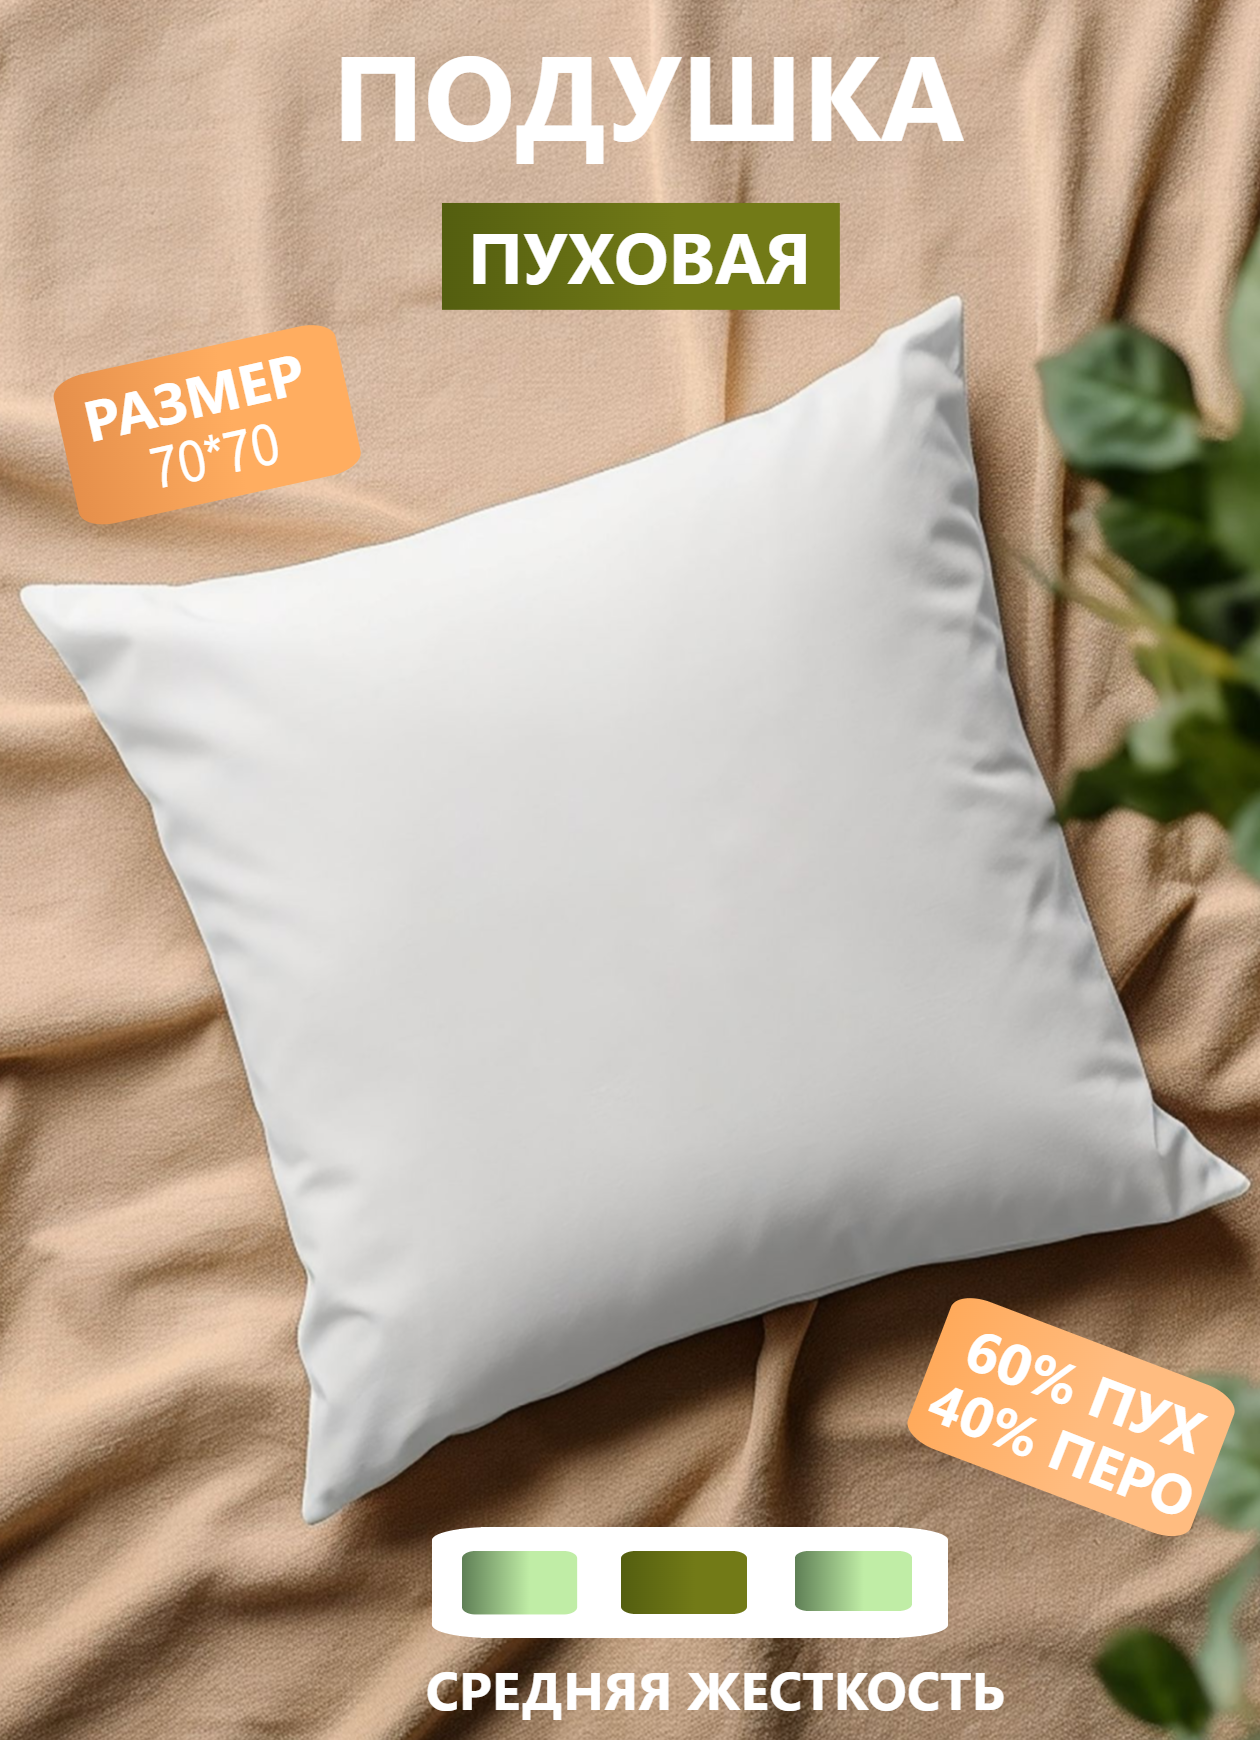
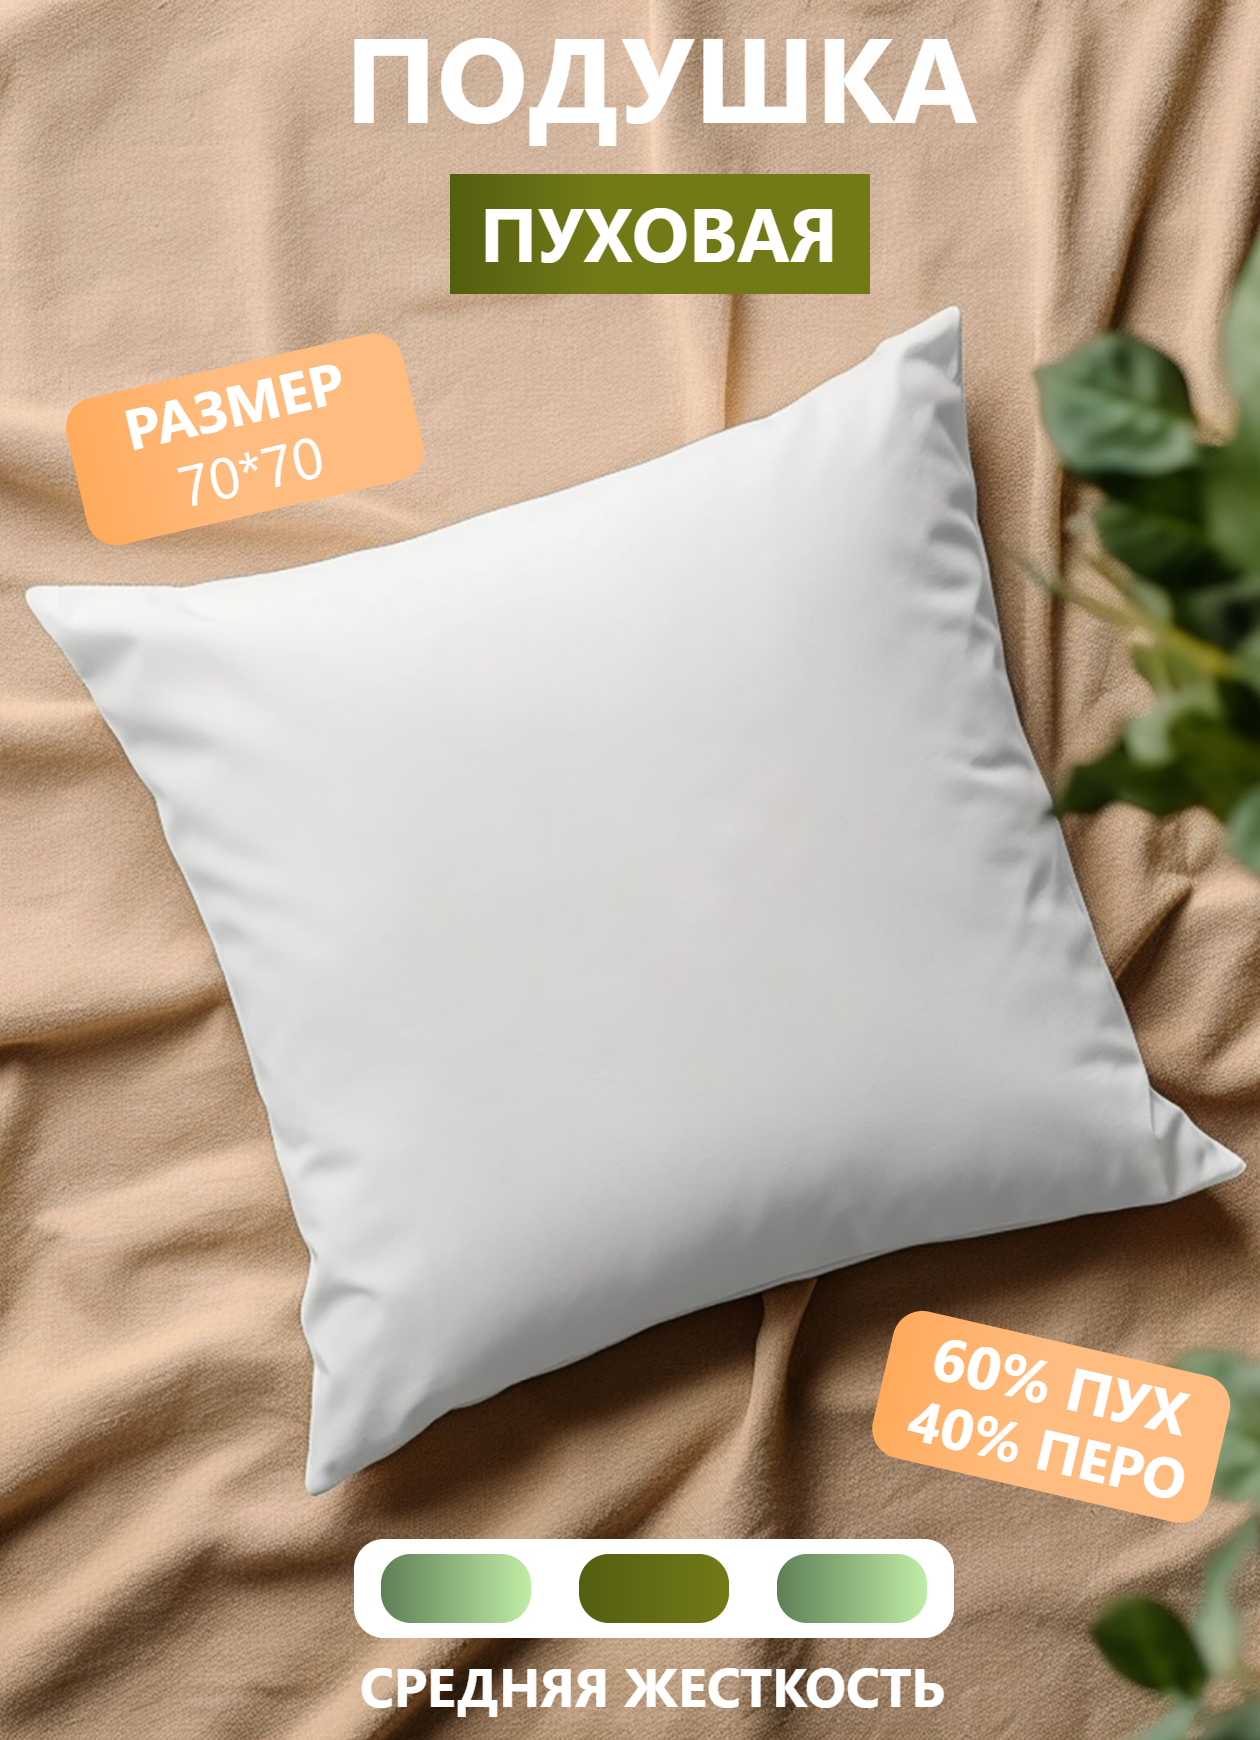
finishedFirstTempOzon

diff --git a/src/components/templates/templates-ozon/template-pillow/TemplateOzonPillowData.js b/src/components/templates/templates-ozon/template-pillow/TemplateOzonPillowData.js
@@ -18,6 +18,10 @@ export default function addImageTemplateOzonPillow(
   let rectSoft;
   let rectSize;
   let rectParams;
+  let bottomRect;
+  let bottomsmallRect1;
+  let bottomsmallRect2;
+  let bottomsmallRect3;
   if (imageFile) {
     var reader = new FileReader();
     reader.onload = function (event) {
@@ -185,6 +189,67 @@ export default function addImageTemplateOzonPillow(
         slideIndex: currentStageIndex,
       };
 
+      bottomRect = {
+        type: "image",
+        id: allObjectsOnStage.length + 1,
+        x: 118,
+        y: 513,
+        image: new window.Image(),
+        typeofImage: "figures_quadrat_rounded",
+        fill: "#fff",
+        width: 200,
+        height: 33,
+        slideIndex: currentStageIndex,
+      };
+      bottomRect.image.src = "./figures/квадратСкругленный.png";
+
+      const splittedStringbottomsmallRect = ["#243D25", "#C0EDA6"];
+
+      bottomsmallRect1 = {
+        type: "image",
+        id: allObjectsOnStage.length + 1,
+        x: 127,
+        y: 518,
+        image: new window.Image(),
+        typeofImage: "figures_quadrat_rounded",
+        fillLinearGradientColorStops: splittedStringbottomsmallRect,
+        fillPriority: "linear-gradient",
+        width: 50,
+        height: 23,
+        slideIndex: currentStageIndex,
+      };
+      bottomsmallRect1.image.src = "./figures/квадратСкругленный.png";
+
+      bottomsmallRect2 = {
+        type: "image",
+        id: allObjectsOnStage.length + 1,
+        x: 193,
+        y: 518,
+        image: new window.Image(),
+        typeofImage: "figures_quadrat_rounded",
+        fillLinearGradientColorStops: splittedString,
+        fillPriority: "linear-gradient",
+        width: 50,
+        height: 23,
+        slideIndex: currentStageIndex,
+      };
+      bottomsmallRect2.image.src = "./figures/квадратСкругленный.png";
+
+      bottomsmallRect3 = {
+        type: "image",
+        id: allObjectsOnStage.length + 1,
+        x: 259,
+        y: 518,
+        image: new window.Image(),
+        typeofImage: "figures_quadrat_rounded",
+        fillLinearGradientColorStops: splittedStringbottomsmallRect,
+        fillPriority: "linear-gradient",
+        width: 50,
+        height: 23,
+        slideIndex: currentStageIndex,
+      };
+      bottomsmallRect3.image.src = "./figures/квадратСкругленный.png";
+
       setallObjectsOnStage([
         ...allObjectsOnStage,
         newImage,
@@ -198,6 +263,10 @@ export default function addImageTemplateOzonPillow(
         rectParams,
         newTextRectParams1,
         newTextRectParams2,
+        bottomRect,
+        bottomsmallRect1,
+        bottomsmallRect2,
+        bottomsmallRect3,
       ]);
       setallObjectsOnCURRENTStage([
         ...allObjectsOnCURRENTStage,
@@ -212,6 +281,10 @@ export default function addImageTemplateOzonPillow(
         rectParams,
         newTextRectParams1,
         newTextRectParams2,
+        bottomRect,
+        bottomsmallRect1,
+        bottomsmallRect2,
+        bottomsmallRect3,
       ]);
     };
     reader.readAsDataURL(imageFile);

diff --git a/src/components/templates/templates-ozon/template-pillow/TemplateOzonPillowStage.js b/src/components/templates/templates-ozon/template-pillow/TemplateOzonPillowStage.js
@@ -1,0 +1,27 @@
+export const templPillowStage = (file, url) => {
+  const imageFile = file;
+  if (imageFile) {
+    var reader = new FileReader();
+    reader.onload = function (event) {
+      let newImage = {
+        type: "image",
+        id: allObjectsOnStage.length + 1,
+        x: 0,
+        y: 0,
+        width: 450,
+        height: 580,
+        image: new window.Image(),
+        typeofImage: typeofPhoto,
+        slideIndex: currentStageIndex,
+      };
+
+      if (url) newImage.image.src = url;
+      else newImage.image.src = event.target.result;
+      console.log(newImage.image.src);
+
+      setallObjectsOnStage([...allObjectsOnStage, newImage]);
+      setallObjectsOnCURRENTStage([...allObjectsOnCURRENTStage, newImage]);
+    };
+    reader.readAsDataURL(imageFile);
+  }
+};
